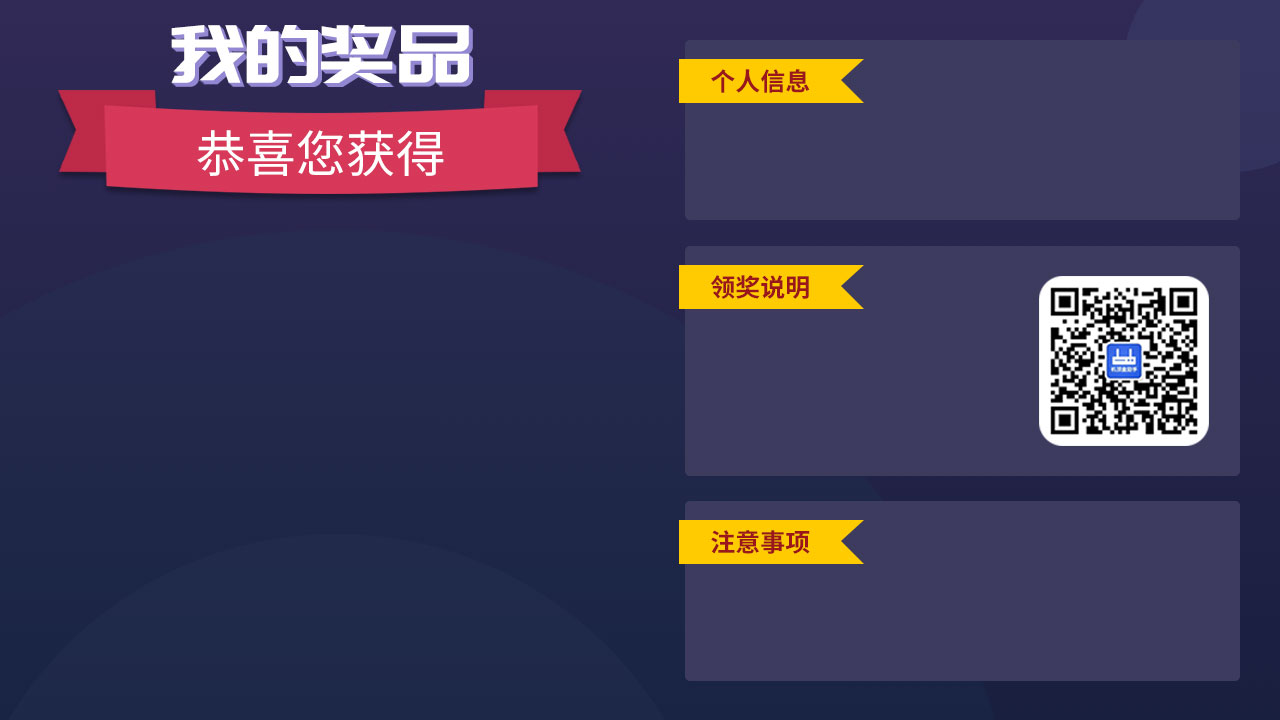
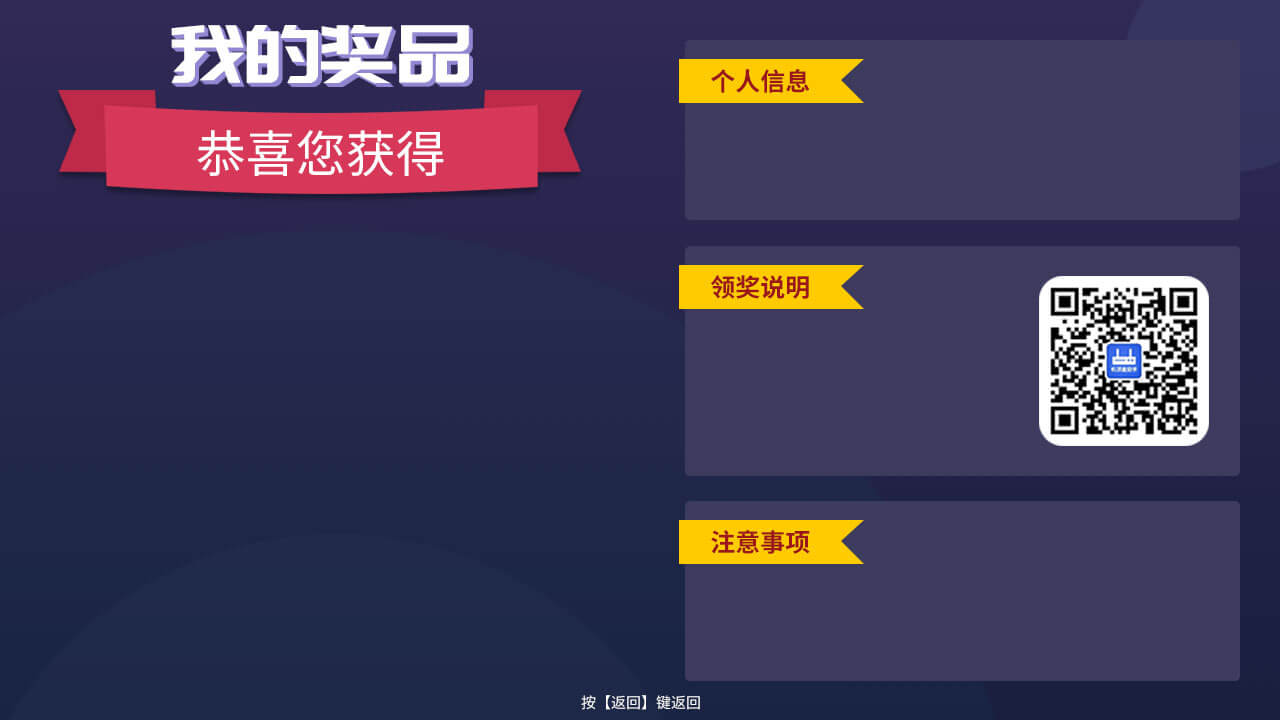
react_js:：砸蛋活动--页面微调整--游客显示/领奖背景图变更（带返回按键提示）

diff --git a/react_js/src/smashEggs/common/PageTheme.js b/react_js/src/smashEggs/common/PageTheme.js
@@ -38,43 +38,22 @@ class PageTheme {
                         verticalAlign: "top",
                     },
                 },
-                "btnLogin":{
-                    style:{
-                        left:75,top:60,width:148,height:148,
-                        backgroundColor:"rgba(0,0,0,0.5)",borderRadius:74,
-                    },
-                    focusStyle:{
-                        left:75,top:60,width:148,height:148,
-                        backgroundColor:"#FFFFFF",borderRadius:74,
-                    }
+              userInfo:{
+                bg:{
+                  style:{
+                    left:60,top: 36, width: 360, height: 84,
+                    backgroundColor: "rgba(0,0,0,0.2)",
+                    borderRadius: 42,
+                  },
                 },
-                "userInfo":{
-                    bg:{
-                        style:{
-                            left:75+148+15,top:80,width:220,height:74,
-                        },
-                    },
-                    icon:{
-                        left:0,top:66,width:46,height:46,
-                        backgroundColor:"#f0ef29",borderRadius:23,
-                    },
-                    title:{
-                        style:{
-                            left:0,top:0,width:220,height:66,
-                            overflow: "hidden",
-                            fontSize:50,color:"#FFFFFF",lineHeight:"66px",textAlign:"left",verticalAlign:"middle"
-                        },
-                        value:"----"
-                    },
-                    subTitle:{
-                        style:{
-                            left:46+15,top:66,width:220,height:45,
-                            overflow: "hidden",
-                            fontSize:36,color:"#FFFFFF",lineHeight:"45px",textAlign:"left",verticalAlign:"middle",textOverflow: 'ellipsis',whiteSpace : 'nowrap'
-                        },
-                        value:"xxxx"
-                    },
+                text:{
+                  style:{
+                    left:0,top:0,width:360,height:84,
+                    overflow: "hidden",
+                    fontSize:42,color:"#FFFFFF",lineHeight:"84px",textAlign:"center",verticalAlign:"middle",textOverflow: 'ellipsis',whiteSpace : 'nowrap'
+                  },
                 },
+              },
                 "PrizeList":{
                     style:{
                         left:1453-27,top:528,width:411,height:465,

diff --git a/react_js/src/smashEggs/views/smash_eggs/MainPage.js b/react_js/src/smashEggs/views/smash_eggs/MainPage.js
@@ -10,7 +10,6 @@ import ConstantVar from "../../common/ConstantVar"
 import {FocusBlock} from "../../../demoCommon/BlockDefine"
 import Rules from "./Rules"
 import PrizeList from "./PrizeList"
-import {Button} from "../../common/CommonWidget";
 class MainPage extends FocusBlock {
     constructor(props) {
         super(props);
@@ -46,6 +45,7 @@ class MainPage extends FocusBlock {
         }
         //防止页面切换闪烁，隐藏主页内容
         this.setState({
+            focusBranchName:branchName,
             mainPageContainerVisible: mainPageContainerVisible,
         });
         this.changeFocus(branchName);
@@ -177,17 +177,11 @@ class MainPage extends FocusBlock {
                         ...this._PagetTheme.bgStyle,
                         backgroundImage: this.props.info ? `url(${this.props.info.bg_url})` : null
                     }}></div>
-                    <Button branchName={ConstantVar.BranchName.LoginBtn} theme={this._PagetTheme.btnLogin} isFocus={this.state.focusBranchName === ConstantVar.BranchName.LoginBtn}></Button>
                     <div style={this._PagetTheme.userInfo.bg.style}>
-                        <div style={this._PagetTheme.userInfo.title.style}>
-                          {this.state.data?this.state.data.alias:this._PagetTheme.userInfo.title.value}
-                        </div>
-                        <div style={this._PagetTheme.userInfo.icon}/>
-                        <div style={this._PagetTheme.userInfo.subTitle.style}>
-                          {this._PagetTheme.userInfo.title.value}
-                        </div>}
+                      {this.state.data ? <div style={this._PagetTheme.userInfo.text.style}>
+                        {"游客：" + this.state.data.alias}
+                      </div> : null}
                     </div>
-
                     <ActivityBtn branchName={ConstantVar.BranchName.MyPrizeRecordBtn} btnTheme={this._PagetTheme.btn}
                                  isFocus={ConstantVar.BranchName.MyPrizeRecordBtn === this.state.focusBranchName}
                                  text={btn_theme.myrecord.text}/>

diff --git a/react_js/src/smashEggs/views/smash_eggs/MyPrizeRecordPage.js b/react_js/src/smashEggs/views/smash_eggs/MyPrizeRecordPage.js
@@ -78,7 +78,7 @@ class MyPrizeRecordPage extends FocusBlock {
       case ConstantVar.KeyCode.Back:
       case ConstantVar.KeyCode.Back2:
         if (this._GoTo) {
-          this._GoTo(ConstantVar.BranchName.MyPrizeRecordBtn)
+          this._GoTo(ConstantVar.BranchName.SmashEggsPage)
         }
         break
       default:
